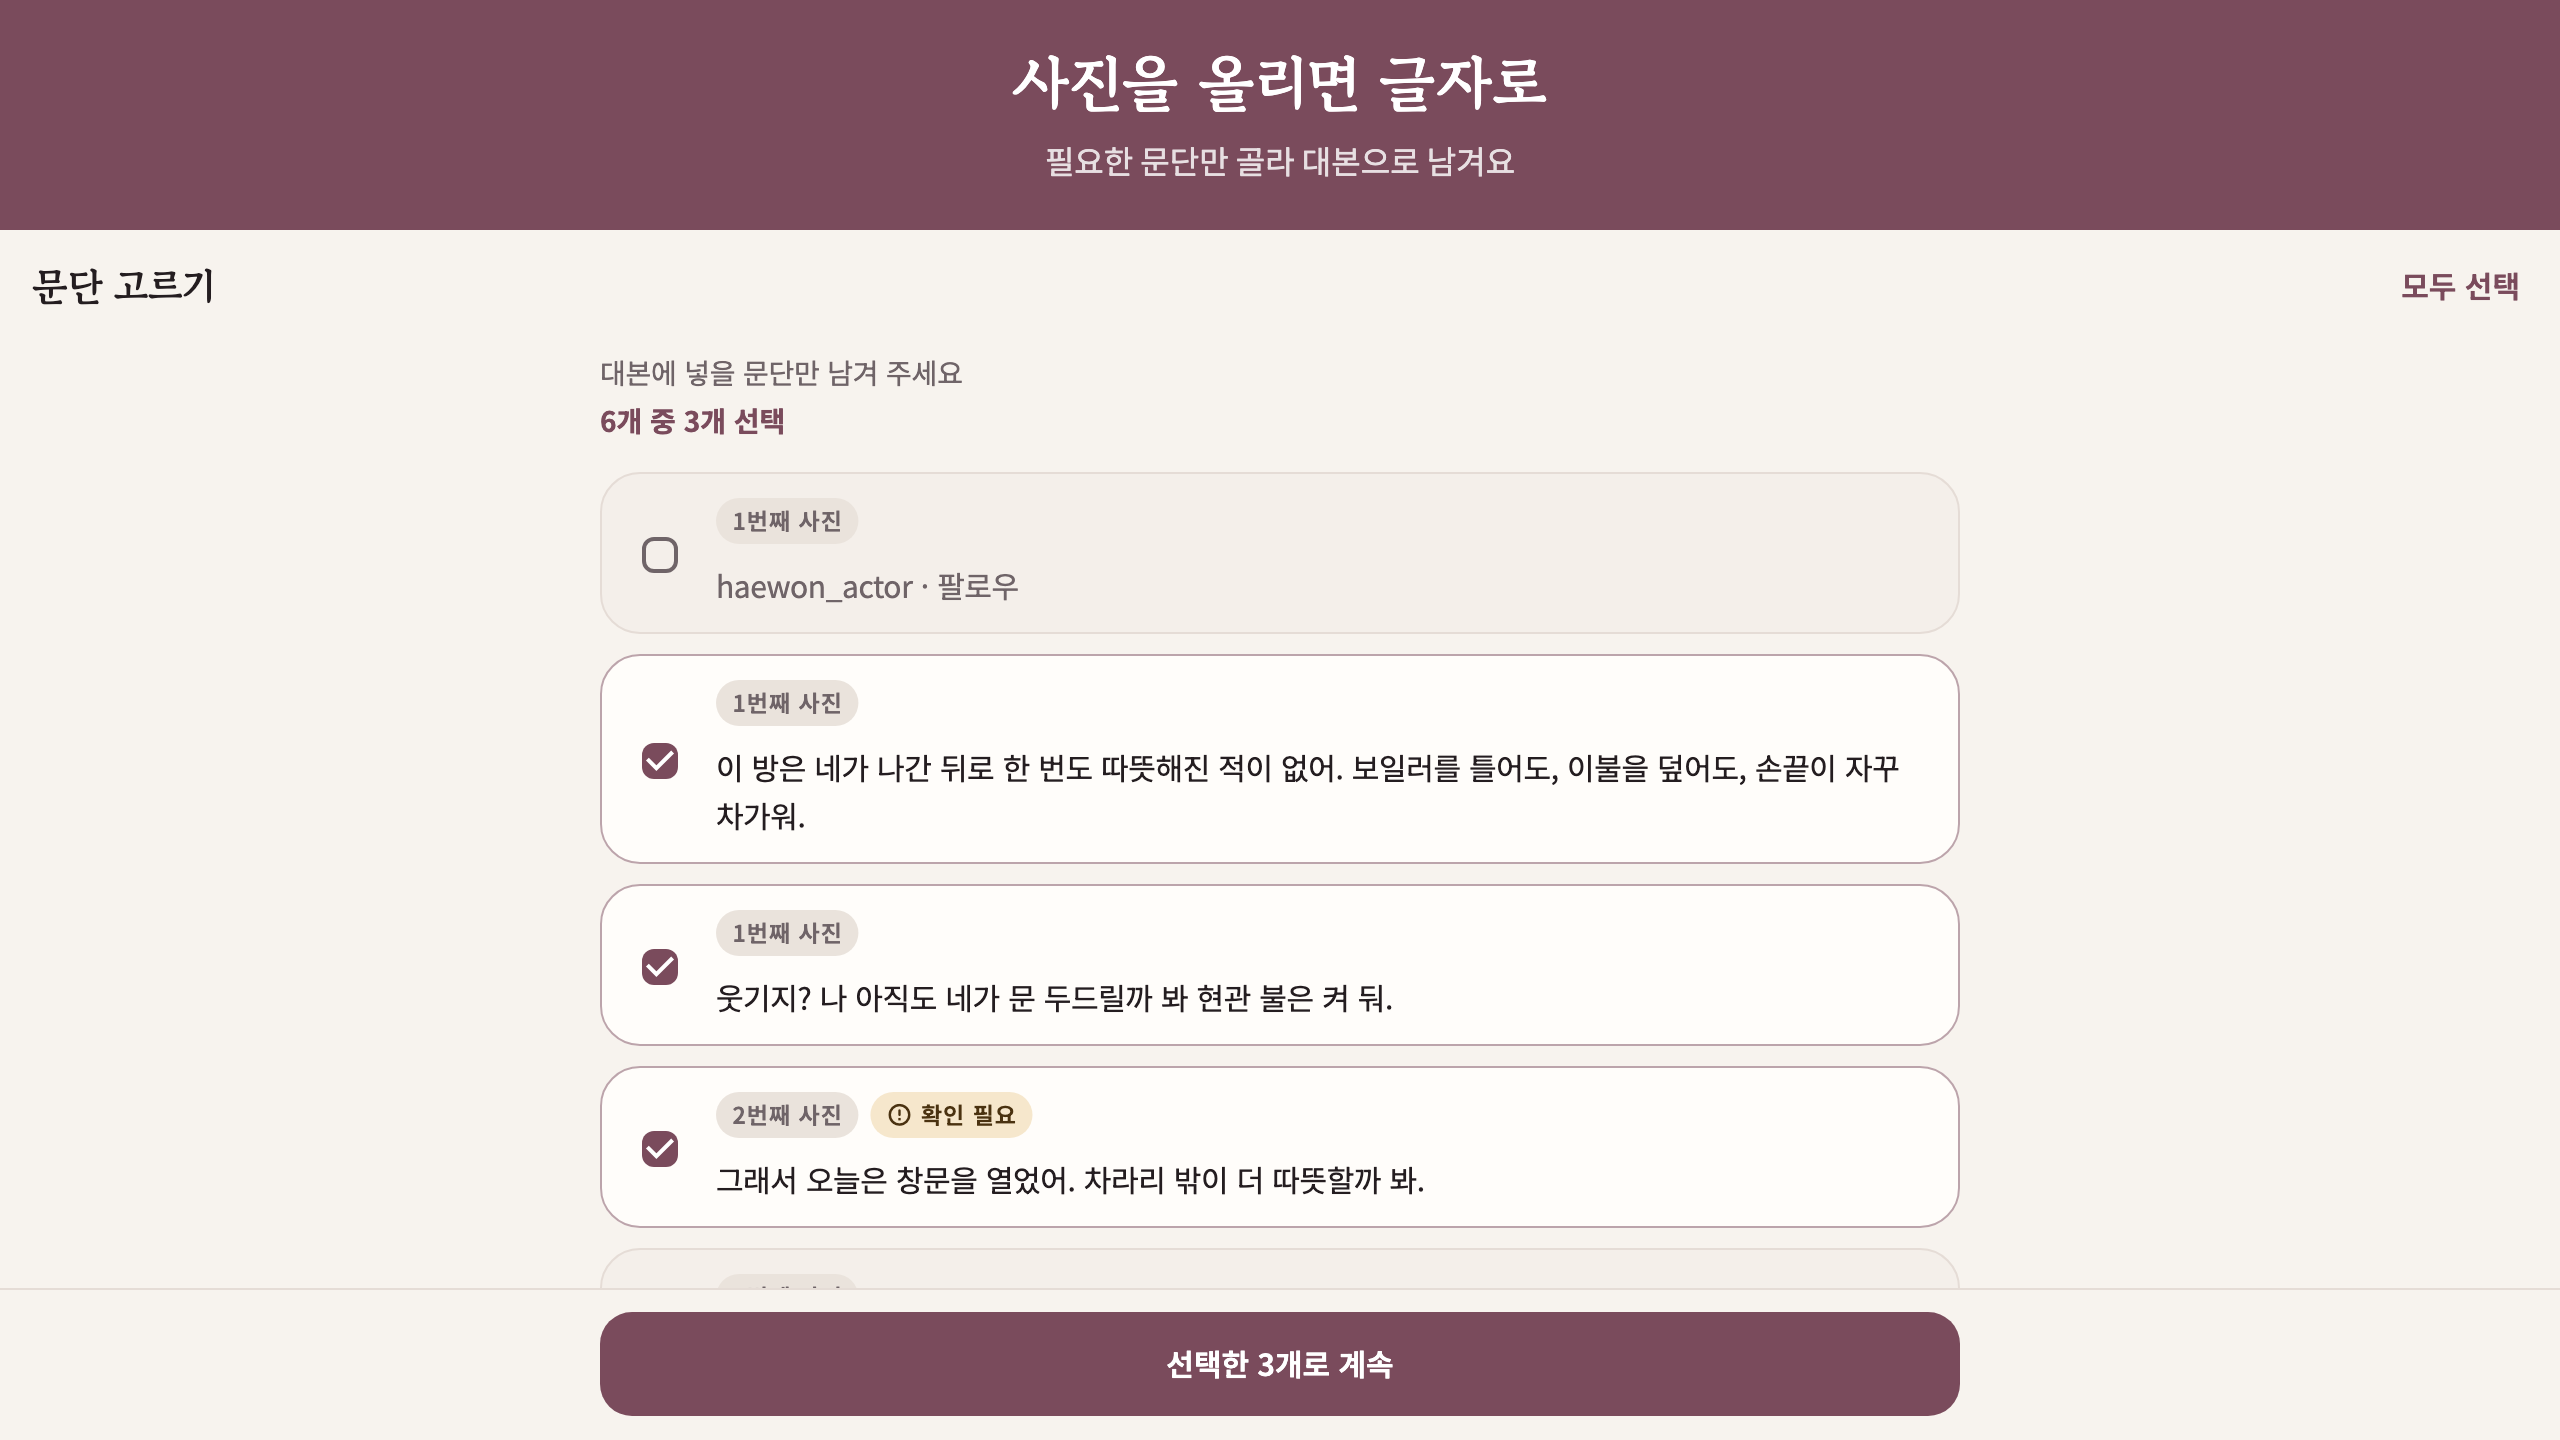
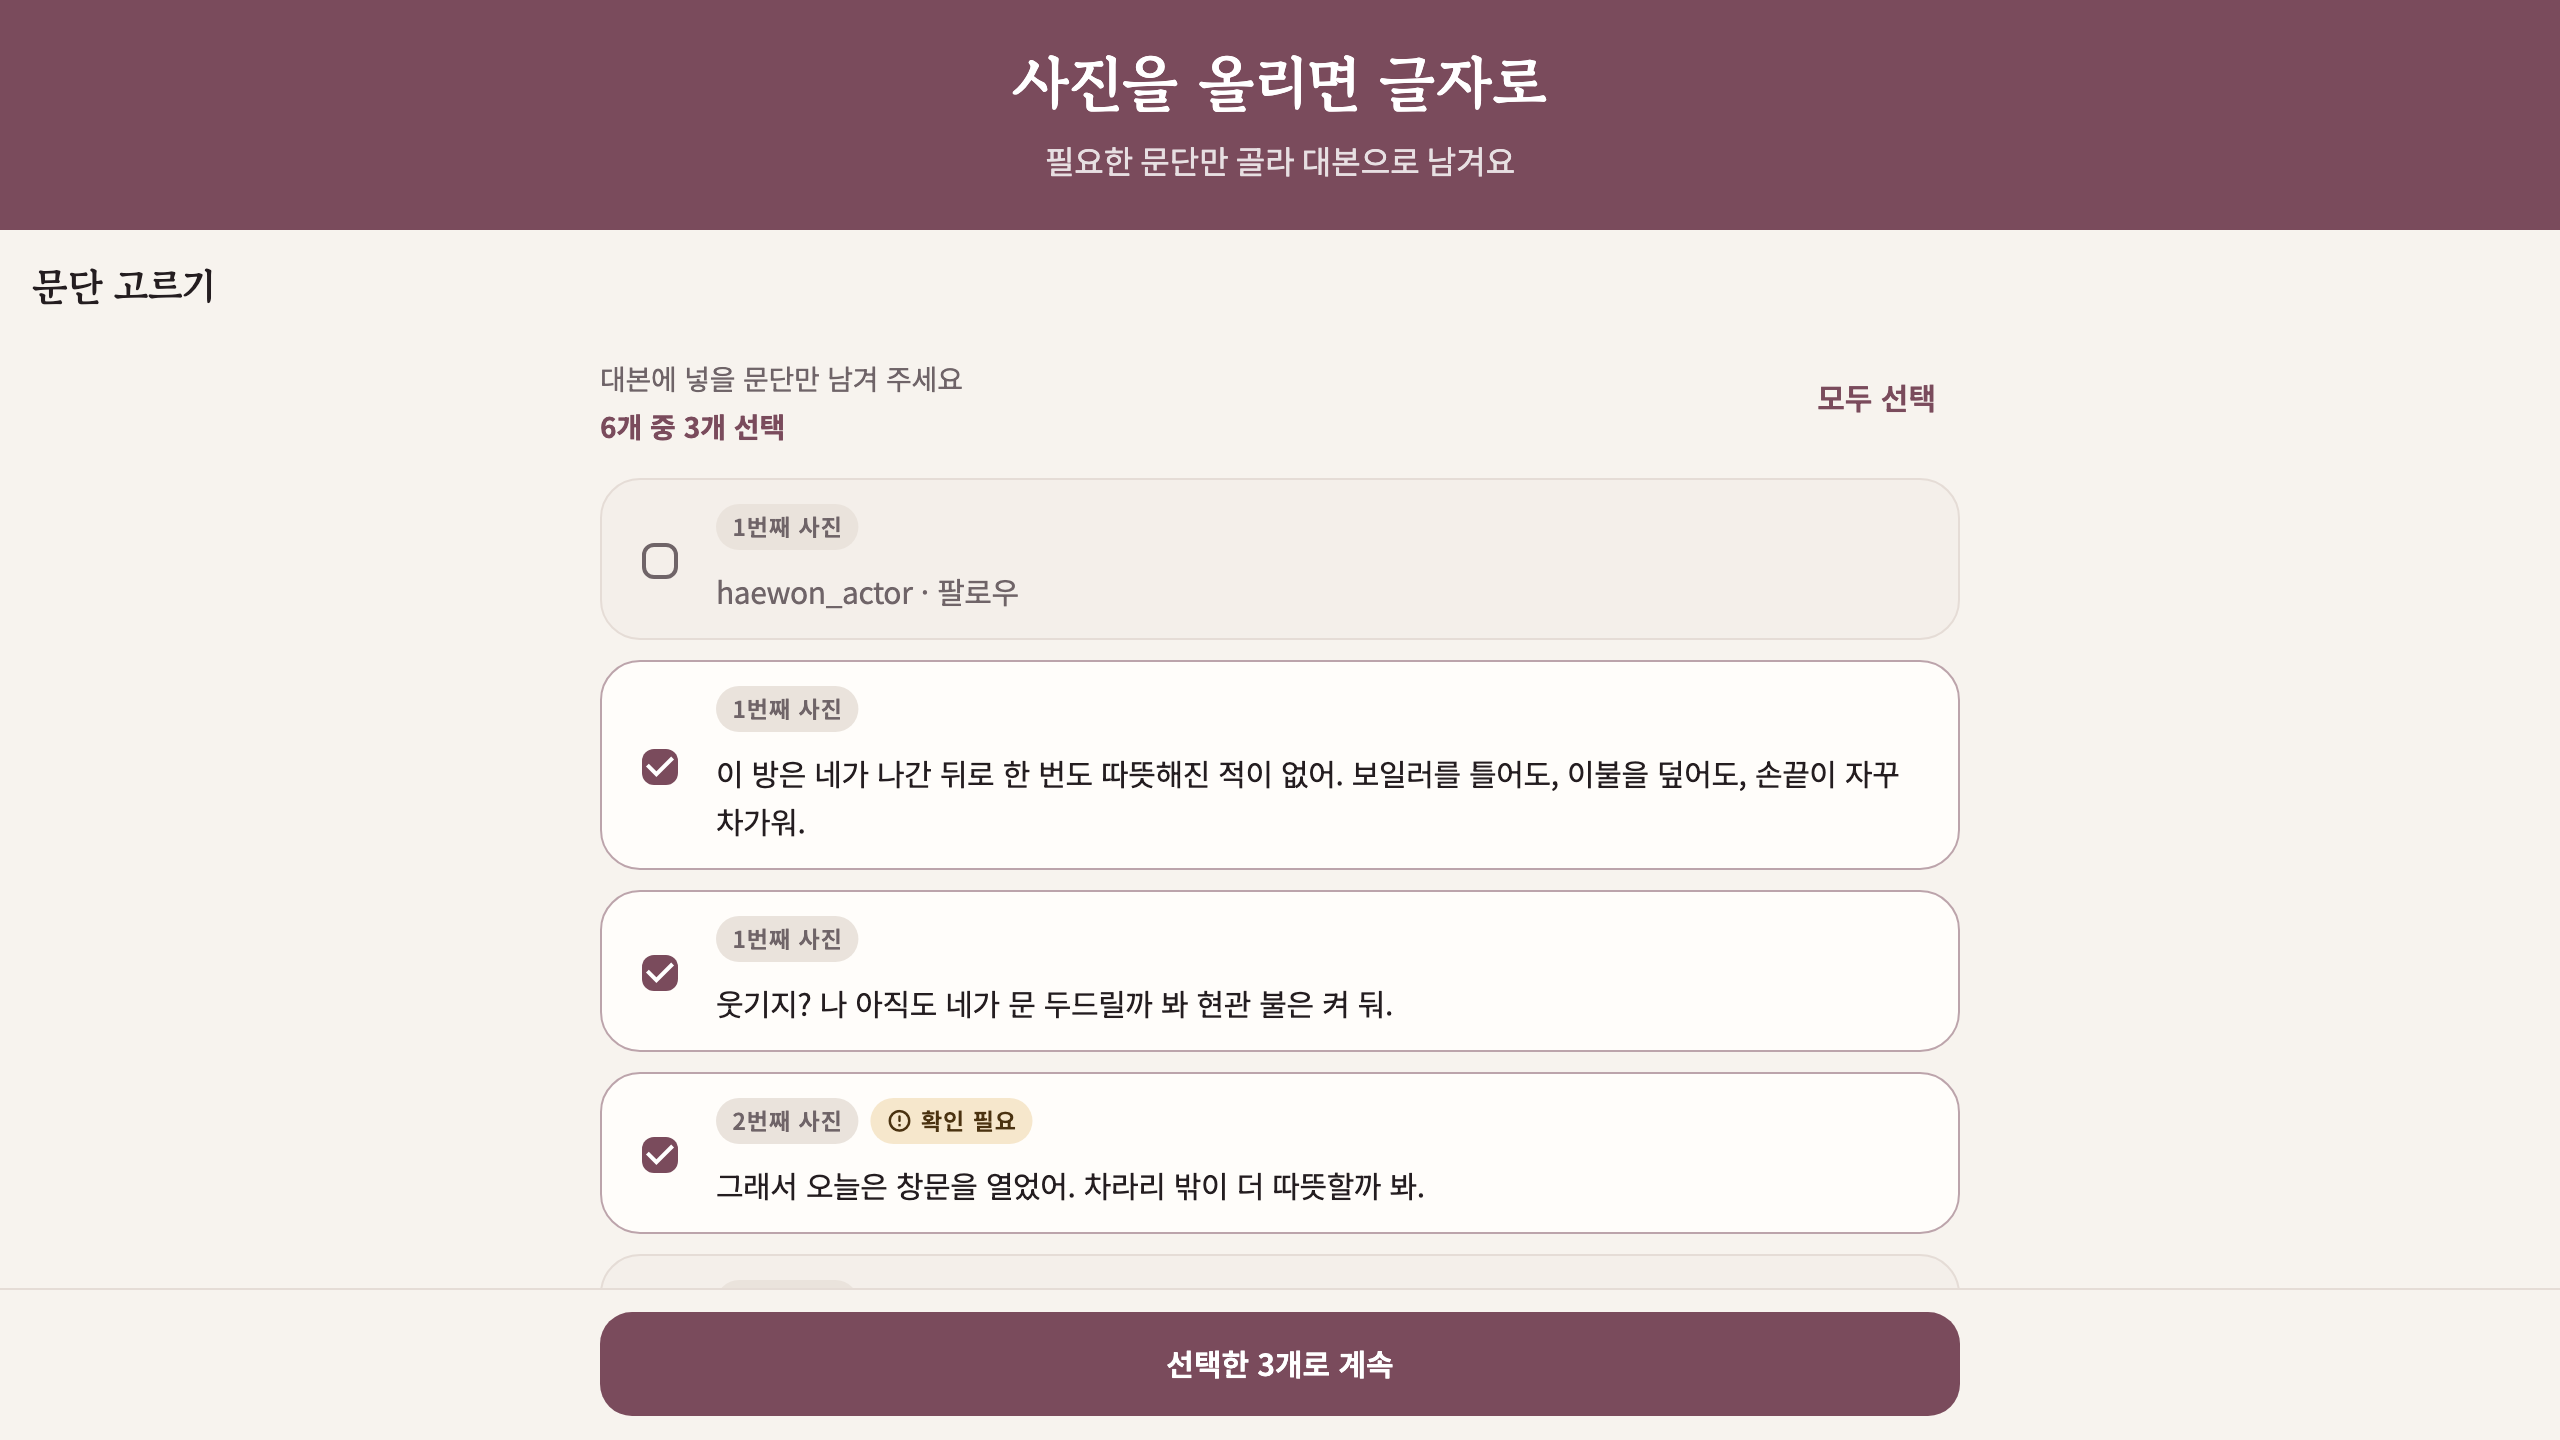
fix: keep 모두 선택 beside the paragraph list and give wide collection grids three larger cards per row
On iPad the select-all button sat at the far edge of the app bar while the list was
centered; it now sits above the list. Wide collection grids were one sparse row of
small cards; the grid is now capped at 960 wide with three cards per row (two on phones).
Store screenshots showing these screens are re-rendered.

diff --git a/lib/ui/capture/pick_paragraphs_screen.dart b/lib/ui/capture/pick_paragraphs_screen.dart
@@ -51,35 +51,38 @@ class _PickParagraphsScreenState extends State<PickParagraphsScreen> {
     final scheme = theme.colorScheme;
     final total = widget.paragraphs.length;
     return Scaffold(
-      appBar: AppBar(
-        title: const Text('문단 고르기'),
-        actions: [
-          TextButton(
-            onPressed: _toggleAll,
-            child: Text(_count < total ? '모두 선택' : '모두 해제'),
-          ),
-          const SizedBox(width: 8),
-        ],
-      ),
+      appBar: AppBar(title: const Text('문단 고르기')),
       body: ListView.separated(
         padding: readablePadding(MediaQuery.sizeOf(context).width, const EdgeInsets.fromLTRB(20, 4, 20, 20)),
         itemCount: total + 1,
         separatorBuilder: (_, _) => const SizedBox(height: 10),
         itemBuilder: (context, i) {
           if (i == 0) {
+            // 모두 선택은 앱 바 끝이 아니라 문단 목록 바로 위에 둬서, 넓은 화면에서도 목록과 함께 보인다
             return Padding(
               padding: const EdgeInsets.only(bottom: 6),
-              child: Column(
-                crossAxisAlignment: CrossAxisAlignment.start,
+              child: Row(
+                crossAxisAlignment: CrossAxisAlignment.end,
                 children: [
-                  Text(
-                    '대본에 넣을 문단만 남겨 주세요',
-                    style: theme.textTheme.bodyMedium?.copyWith(color: scheme.onSurfaceVariant, height: 1.5),
+                  Expanded(
+                    child: Column(
+                      crossAxisAlignment: CrossAxisAlignment.start,
+                      children: [
+                        Text(
+                          '대본에 넣을 문단만 남겨 주세요',
+                          style: theme.textTheme.bodyMedium?.copyWith(color: scheme.onSurfaceVariant, height: 1.5),
+                        ),
+                        const SizedBox(height: 4),
+                        Text(
+                          '$total개 중 $_count개 선택',
+                          style: theme.textTheme.labelLarge?.copyWith(color: scheme.primary, fontWeight: FontWeight.w700),
+                        ),
+                      ],
+                    ),
                   ),
-                  const SizedBox(height: 4),
-                  Text(
-                    '$total개 중 $_count개 선택',
-                    style: theme.textTheme.labelLarge?.copyWith(color: scheme.primary, fontWeight: FontWeight.w700),
+                  TextButton(
+                    onPressed: _toggleAll,
+                    child: Text(_count < total ? '모두 선택' : '모두 해제'),
                   ),
                 ],
               ),

diff --git a/lib/ui/home/collections_screen.dart b/lib/ui/home/collections_screen.dart
@@ -186,11 +186,14 @@ class _CollectionsScreenState extends State<CollectionsScreen> {
                     builder: (context, constraints) => CustomScrollView(
                       slivers: [
                         SliverPadding(
-                          padding: grid ? padding : readablePadding(constraints.maxWidth, padding),
-                          // 넓은 창에서는 카드를 키우지 않고 한 줄에 더 많이 놓는다(폰에서는 두 개)
+                          padding: grid
+                              ? readablePadding(constraints.maxWidth, padding, maxWidth: _gridMaxWidth)
+                              : readablePadding(constraints.maxWidth, padding),
+                          // 넓은 창에서 카드가 한 줄로 흩어져 아래가 비지 않도록, 그리드 폭을 줄이고 세 개씩 놓는다(폰에서는 두 개)
                           sliver: grid
-                              ? SliverGrid.extent(
-                                  maxCrossAxisExtent: 220,
+                              ? SliverGrid.count(
+                                  crossAxisCount:
+                                      (constraints.maxWidth - padding.horizontal).clamp(0.0, _gridMaxWidth) < 520 ? 2 : 3,
                                   mainAxisSpacing: 12,
                                   crossAxisSpacing: 12,
                                   childAspectRatio: 1.2,
@@ -213,6 +216,9 @@ class _CollectionsScreenState extends State<CollectionsScreen> {
     );
   }
 }
+
+/// 모음 그리드가 넓어질 수 있는 최대 폭. 이 폭에 세 개씩 놓으면 카드 하나가 300쯤 된다.
+const _gridMaxWidth = 960.0;
 
 class _CollectionCard extends StatelessWidget {
   const _CollectionCard({required this.entry});

diff --git a/lib/ui/common/adaptive.dart b/lib/ui/common/adaptive.dart
@@ -18,9 +18,9 @@ bool usesSideRail(BuildContext context) {
   return size.width >= 840 && size.height >= 480;
 }
 
-/// 폭이 [width]인 자리에서 내용이 [readableWidth]보다 넓어지지 않도록 [padding]의 양옆을 늘린다.
+/// 폭이 [width]인 자리에서 내용이 [maxWidth]보다 넓어지지 않도록 [padding]의 양옆을 늘린다.
 /// 스크롤 영역에 쓰면 여백을 끌어도 스크롤된다. 창 전체를 쓰는 화면은 창 폭을 넘긴다.
-EdgeInsets readablePadding(double width, EdgeInsets padding) {
-  final extra = math.max(0.0, (width - padding.horizontal - readableWidth) / 2);
+EdgeInsets readablePadding(double width, EdgeInsets padding, {double maxWidth = readableWidth}) {
+  final extra = math.max(0.0, (width - padding.horizontal - maxWidth) / 2);
   return padding.copyWith(left: padding.left + extra, right: padding.right + extra);
 }
